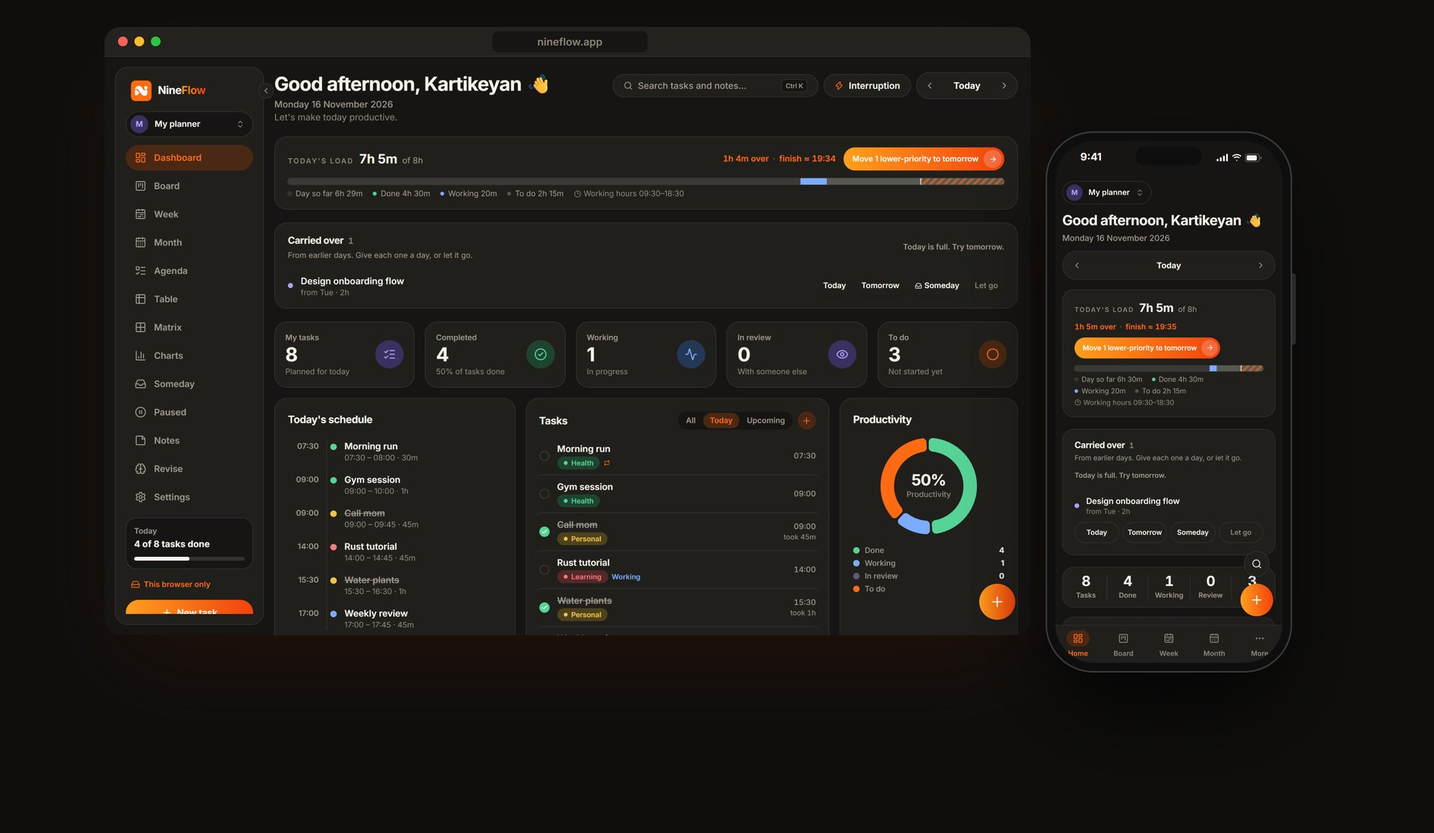
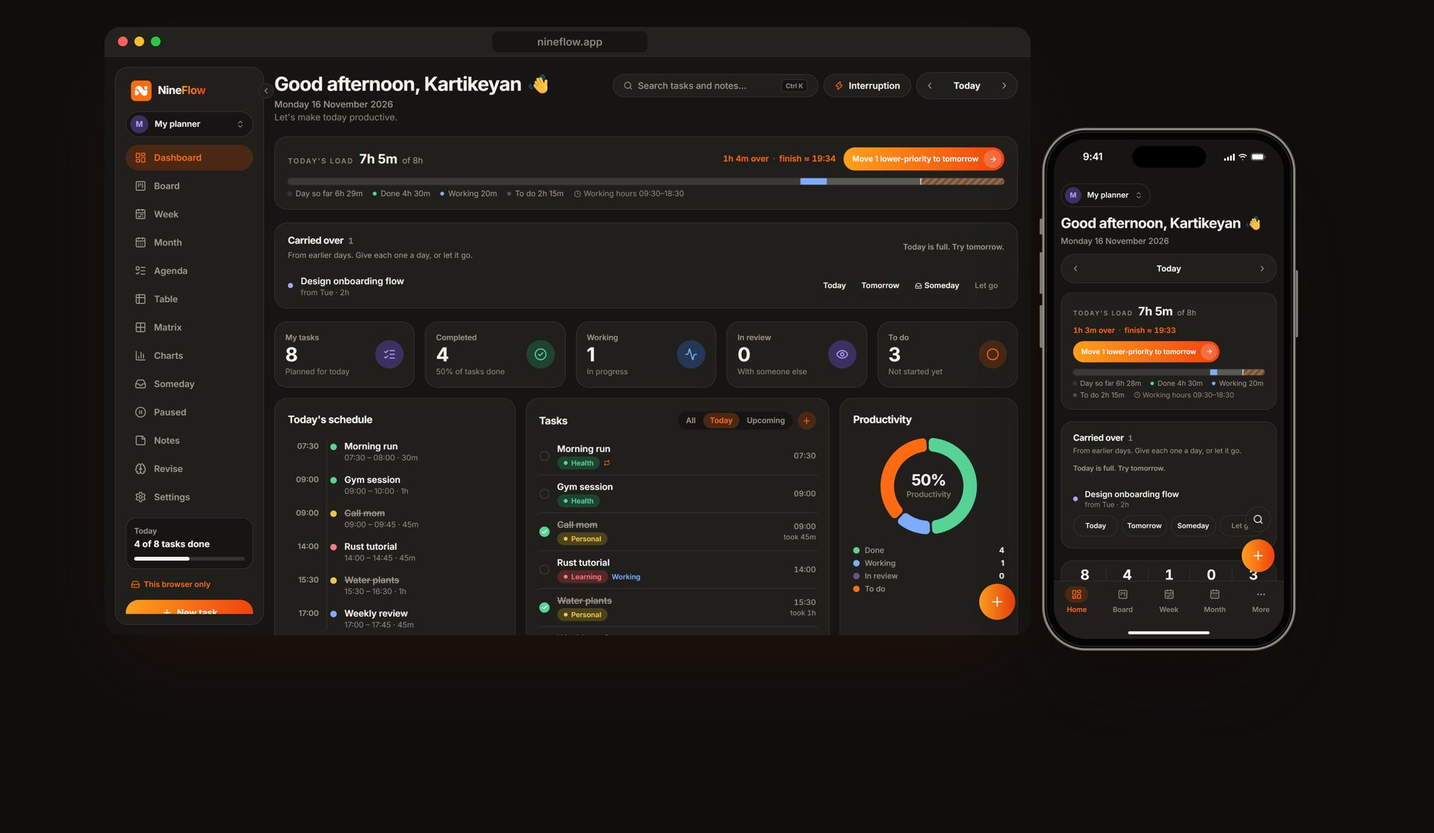
Auto-sync: update 34 file(s)
assets/images/projects/nineflow/deck/p11b-goal-notitle.jpg assets/images/projects/nineflow/deck/p11b-goal-notitle@1200.jpg assets/images/projects/nineflow/deck/p11b-goal-notitle@1920.jpg assets/images/projects/nineflow/deck/p11d-finish-notitle.jpg assets/images/projects/nineflow/deck/p11d-finish-notitle@1200.jpg

Changed region(s): [[0.7188, 0.1523, 0.9062, 0.6398], [0.7188, 0.6093, 0.9062, 0.7921]]

diff --git a/nineflow.html b/nineflow.html
@@ -66,7 +66,7 @@
         </div>
         <div class="nfp-hero__devices" aria-hidden="true">
           <figure class="nfp-bz nfp-hero__laptop"><span class="nfp-bz__bar"><i></i><i></i><i></i><em>nineflow.app/week</em></span><img src="assets/images/projects/nineflow/pres/desk-light-week@1440.jpg" srcset="assets/images/projects/nineflow/pres/desk-light-week@1440.jpg 1440w, assets/images/projects/nineflow/pres/desk-light-week.jpg 3840w" sizes="(min-width: 1100px) 60vw, 92vw" width="3840" height="2400" alt="" /></figure>
-          <figure class="nfp-ph nfp-hero__phone"><img src="assets/images/projects/nineflow/pres/phone-light-month.jpg" width="1170" height="2532" alt="" /></figure>
+          <figure class="nfp-ph nfp-hero__phone"><img src="assets/images/projects/nineflow/pres/phone-light-month.jpg" width="1179" height="2556" alt="" /></figure>
         </div>
       </div>
       <dl class="nfp-facts">
@@ -415,7 +415,7 @@
             <div class="nff-tile__txt"><span class="nff-no">04 · Plan a goal</span><h4>An exam in 24 days, every evening planned</h4><p>Name the goal, pick the date and list the topics. NineFlow spreads the work over your free evenings and shows the plan first.</p></div>
           </article>
           <article class="nff-tile nff-tile--phone nfp-r">
-            <figure><img src="assets/images/projects/nineflow/pres/phone-feat-focus.jpg" width="1170" height="2532" alt="Focus timer counting down on a phone for a gym session" loading="lazy" /></figure>
+            <figure><div class="nfp-ph"><img src="assets/images/projects/nineflow/pres/phone-feat-focus.jpg" width="1179" height="2556" alt="Focus timer counting down on a phone for a gym session" loading="lazy" /></div></figure>
             <div class="nff-tile__txt"><span class="nff-no">05 · Focus timer</span><h4>Focus, and the time is logged</h4><p>A Pomodoro timer that runs on the task, so the minutes you work are logged next to the time you planned.</p></div>
           </article>
           <article class="nff-tile nfp-r">
@@ -460,23 +460,23 @@
         <p>The Android app is the same planner, laid out for a thumb: Home, Board, Week and Month in a bottom bar, everything else one tap away. Every screen comes in light and dark, shown here side by side.</p></header></div>
       <div class="nfp-phones" id="nfpPhones" tabindex="0" aria-label="Phone screens in light and dark mode, scroll sideways">
         <figure class="nfp-pair nfp-r">
-          <div class="nfp-pair__set"><div class="nfp-ph"><img src="assets/images/projects/nineflow/pres/phone-light-home.jpg" width="1170" height="2532" alt="Phone Home in light mode: today's load and schedule" loading="lazy" /></div><div class="nfp-ph nfp-ph--dark"><img src="assets/images/projects/nineflow/pres/phone-dark-home.jpg" width="1170" height="2532" alt="Phone Home in dark mode: today's load and schedule" loading="lazy" /></div></div>
+          <div class="nfp-pair__set"><div class="nfp-ph"><img src="assets/images/projects/nineflow/pres/phone-light-home.jpg" width="1179" height="2556" alt="Phone Home in light mode: today's load and schedule" loading="lazy" /></div><div class="nfp-ph nfp-ph--dark"><img src="assets/images/projects/nineflow/pres/phone-dark-home.jpg" width="1179" height="2556" alt="Phone Home in dark mode: today's load and schedule" loading="lazy" /></div></div>
           <figcaption><b>Home</b><span>Light · Dark</span></figcaption>
         </figure>
         <figure class="nfp-pair nfp-r">
-          <div class="nfp-pair__set"><div class="nfp-ph"><img src="assets/images/projects/nineflow/pres/phone-light-week.jpg" width="1170" height="2532" alt="Phone Week in light mode: the week timeline" loading="lazy" /></div><div class="nfp-ph nfp-ph--dark"><img src="assets/images/projects/nineflow/pres/phone-dark-week.jpg" width="1170" height="2532" alt="Phone Week in dark mode: the week timeline" loading="lazy" /></div></div>
+          <div class="nfp-pair__set"><div class="nfp-ph"><img src="assets/images/projects/nineflow/pres/phone-light-week.jpg" width="1179" height="2556" alt="Phone Week in light mode: the week timeline" loading="lazy" /></div><div class="nfp-ph nfp-ph--dark"><img src="assets/images/projects/nineflow/pres/phone-dark-week.jpg" width="1179" height="2556" alt="Phone Week in dark mode: the week timeline" loading="lazy" /></div></div>
           <figcaption><b>Week</b><span>Light · Dark</span></figcaption>
         </figure>
         <figure class="nfp-pair nfp-r">
-          <div class="nfp-pair__set"><div class="nfp-ph"><img src="assets/images/projects/nineflow/pres/phone-light-board.jpg" width="1170" height="2532" alt="Phone Board in light mode: To do, Working and In review tabs" loading="lazy" /></div><div class="nfp-ph nfp-ph--dark"><img src="assets/images/projects/nineflow/pres/phone-dark-board.jpg" width="1170" height="2532" alt="Phone Board in dark mode: To do, Working and In review tabs" loading="lazy" /></div></div>
+          <div class="nfp-pair__set"><div class="nfp-ph"><img src="assets/images/projects/nineflow/pres/phone-light-board.jpg" width="1179" height="2556" alt="Phone Board in light mode: To do, Working and In review tabs" loading="lazy" /></div><div class="nfp-ph nfp-ph--dark"><img src="assets/images/projects/nineflow/pres/phone-dark-board.jpg" width="1179" height="2556" alt="Phone Board in dark mode: To do, Working and In review tabs" loading="lazy" /></div></div>
           <figcaption><b>Board</b><span>Light · Dark</span></figcaption>
         </figure>
         <figure class="nfp-pair nfp-r">
-          <div class="nfp-pair__set"><div class="nfp-ph"><img src="assets/images/projects/nineflow/pres/phone-light-month.jpg" width="1170" height="2532" alt="Phone Month in light mode: hours per day across the month" loading="lazy" /></div><div class="nfp-ph nfp-ph--dark"><img src="assets/images/projects/nineflow/pres/phone-dark-month.jpg" width="1170" height="2532" alt="Phone Month in dark mode: hours per day across the month" loading="lazy" /></div></div>
+          <div class="nfp-pair__set"><div class="nfp-ph"><img src="assets/images/projects/nineflow/pres/phone-light-month.jpg" width="1179" height="2556" alt="Phone Month in light mode: hours per day across the month" loading="lazy" /></div><div class="nfp-ph nfp-ph--dark"><img src="assets/images/projects/nineflow/pres/phone-dark-month.jpg" width="1179" height="2556" alt="Phone Month in dark mode: hours per day across the month" loading="lazy" /></div></div>
           <figcaption><b>Month</b><span>Light · Dark</span></figcaption>
         </figure>
         <figure class="nfp-pair nfp-r">
-          <div class="nfp-pair__set"><div class="nfp-ph"><img src="assets/images/projects/nineflow/pres/phone-light-charts.jpg" width="1170" height="2532" alt="Phone Charts in light mode: hours worked and tasks done" loading="lazy" /></div><div class="nfp-ph nfp-ph--dark"><img src="assets/images/projects/nineflow/pres/phone-dark-charts.jpg" width="1170" height="2532" alt="Phone Charts in dark mode: hours worked and tasks done" loading="lazy" /></div></div>
+          <div class="nfp-pair__set"><div class="nfp-ph"><img src="assets/images/projects/nineflow/pres/phone-light-charts.jpg" width="1179" height="2556" alt="Phone Charts in light mode: hours worked and tasks done" loading="lazy" /></div><div class="nfp-ph nfp-ph--dark"><img src="assets/images/projects/nineflow/pres/phone-dark-charts.jpg" width="1179" height="2556" alt="Phone Charts in dark mode: hours worked and tasks done" loading="lazy" /></div></div>
           <figcaption><b>Charts</b><span>Light · Dark</span></figcaption>
         </figure>
       </div>
@@ -492,7 +492,7 @@
         <p>Warm greys instead of pure black, and the same orange, so the brand looks the same day and night. Four more colour themes for people who want their own.</p></header>
       <div class="nfp-dark nfp-r">
         <figure class="nfp-bz nfp-bz--dark"><span class="nfp-bz__bar"><i></i><i></i><i></i><em>nineflow.app</em></span><img src="assets/images/projects/nineflow/pres/desk-dark-dashboard@1440.jpg" srcset="assets/images/projects/nineflow/pres/desk-dark-dashboard@1440.jpg 1440w, assets/images/projects/nineflow/pres/desk-dark-dashboard.jpg 3840w" sizes="80vw" width="3840" height="2400" alt="The dashboard in dark mode" loading="lazy" /></figure>
-        <figure class="nfp-ph nfp-dark__ph"><img src="assets/images/projects/nineflow/pres/phone-dark-home.jpg" width="1170" height="2532" alt="Phone home in dark mode" loading="lazy" /></figure>
+        <figure class="nfp-ph nfp-dark__ph"><img src="assets/images/projects/nineflow/pres/phone-dark-home.jpg" width="1179" height="2556" alt="Phone home in dark mode" loading="lazy" /></figure>
       </div>
       <figure class="nfp-board nfp-board--deck nfp-r"><img src="assets/images/projects/nineflow/deck/p14-dark-notitle@1920.jpg" srcset="assets/images/projects/nineflow/deck/p14-dark-notitle@1200.jpg 1200w, assets/images/projects/nineflow/deck/p14-dark-notitle@1920.jpg 1920w, assets/images/projects/nineflow/deck/p14-dark-notitle.jpg 3840w" sizes="(min-width: 1400px) 1300px, 94vw" width="3840" height="2232" alt="Easy on the eyes after dark: the dashboard and phone in dark mode" loading="lazy" decoding="async" /></figure>
       <div class="nfp-themes">

diff --git a/nineflow-presentation.html b/nineflow-presentation.html
@@ -67,7 +67,7 @@
         </div>
         <div class="nfp-hero__devices" aria-hidden="true">
           <figure class="nfp-bz nfp-hero__laptop"><span class="nfp-bz__bar"><i></i><i></i><i></i><em>nineflow.app/week</em></span><img src="assets/images/projects/nineflow/pres/desk-light-week@1440.jpg" srcset="assets/images/projects/nineflow/pres/desk-light-week@1440.jpg 1440w, assets/images/projects/nineflow/pres/desk-light-week.jpg 3840w" sizes="(min-width: 1100px) 60vw, 92vw" width="3840" height="2400" alt="" /></figure>
-          <figure class="nfp-ph nfp-hero__phone"><img src="assets/images/projects/nineflow/pres/phone-light-month.jpg" width="1170" height="2532" alt="" /></figure>
+          <figure class="nfp-ph nfp-hero__phone"><img src="assets/images/projects/nineflow/pres/phone-light-month.jpg" width="1179" height="2556" alt="" /></figure>
         </div>
       </div>
       <dl class="nfp-facts">
@@ -361,7 +361,7 @@
             </div>
           </article>
           <article class="nff-card nff-card--phone nfp-r">
-            <figure><img src="assets/images/projects/nineflow/pres/phone-feat-focus.jpg" width="1170" height="2532" alt="Focus timer counting down on a phone for a gym session" loading="lazy" /></figure>
+            <figure><div class="nfp-ph"><img src="assets/images/projects/nineflow/pres/phone-feat-focus.jpg" width="1179" height="2556" alt="Focus timer counting down on a phone for a gym session" loading="lazy" /></div></figure>
             <div class="nff-txt">
               <span class="nff-no">05 · Focus timer</span><h4>Focus, and the time is logged</h4>
               <p class="nff-lead">A Pomodoro timer that runs on the task itself, so the minutes you work are recorded where they belong.</p>
@@ -442,23 +442,23 @@
         <p>The Android app is the same planner, laid out for a thumb: Home, Board, Week and Month in a bottom bar, everything else one tap away. Every screen comes in light and dark, shown here side by side.</p></header></div>
       <div class="nfp-phones" id="nfpPhones" tabindex="0" aria-label="Phone screens in light and dark mode, scroll sideways">
         <figure class="nfp-pair nfp-r">
-          <div class="nfp-pair__set"><div class="nfp-ph"><img src="assets/images/projects/nineflow/pres/phone-light-home.jpg" width="1170" height="2532" alt="Phone Home in light mode: today's load and schedule" loading="lazy" /></div><div class="nfp-ph nfp-ph--dark"><img src="assets/images/projects/nineflow/pres/phone-dark-home.jpg" width="1170" height="2532" alt="Phone Home in dark mode: today's load and schedule" loading="lazy" /></div></div>
+          <div class="nfp-pair__set"><div class="nfp-ph"><img src="assets/images/projects/nineflow/pres/phone-light-home.jpg" width="1179" height="2556" alt="Phone Home in light mode: today's load and schedule" loading="lazy" /></div><div class="nfp-ph nfp-ph--dark"><img src="assets/images/projects/nineflow/pres/phone-dark-home.jpg" width="1179" height="2556" alt="Phone Home in dark mode: today's load and schedule" loading="lazy" /></div></div>
           <figcaption><b>Home</b><span>Light · Dark</span></figcaption>
         </figure>
         <figure class="nfp-pair nfp-r">
-          <div class="nfp-pair__set"><div class="nfp-ph"><img src="assets/images/projects/nineflow/pres/phone-light-week.jpg" width="1170" height="2532" alt="Phone Week in light mode: the week timeline" loading="lazy" /></div><div class="nfp-ph nfp-ph--dark"><img src="assets/images/projects/nineflow/pres/phone-dark-week.jpg" width="1170" height="2532" alt="Phone Week in dark mode: the week timeline" loading="lazy" /></div></div>
+          <div class="nfp-pair__set"><div class="nfp-ph"><img src="assets/images/projects/nineflow/pres/phone-light-week.jpg" width="1179" height="2556" alt="Phone Week in light mode: the week timeline" loading="lazy" /></div><div class="nfp-ph nfp-ph--dark"><img src="assets/images/projects/nineflow/pres/phone-dark-week.jpg" width="1179" height="2556" alt="Phone Week in dark mode: the week timeline" loading="lazy" /></div></div>
           <figcaption><b>Week</b><span>Light · Dark</span></figcaption>
         </figure>
         <figure class="nfp-pair nfp-r">
-          <div class="nfp-pair__set"><div class="nfp-ph"><img src="assets/images/projects/nineflow/pres/phone-light-board.jpg" width="1170" height="2532" alt="Phone Board in light mode: To do, Working and In review tabs" loading="lazy" /></div><div class="nfp-ph nfp-ph--dark"><img src="assets/images/projects/nineflow/pres/phone-dark-board.jpg" width="1170" height="2532" alt="Phone Board in dark mode: To do, Working and In review tabs" loading="lazy" /></div></div>
+          <div class="nfp-pair__set"><div class="nfp-ph"><img src="assets/images/projects/nineflow/pres/phone-light-board.jpg" width="1179" height="2556" alt="Phone Board in light mode: To do, Working and In review tabs" loading="lazy" /></div><div class="nfp-ph nfp-ph--dark"><img src="assets/images/projects/nineflow/pres/phone-dark-board.jpg" width="1179" height="2556" alt="Phone Board in dark mode: To do, Working and In review tabs" loading="lazy" /></div></div>
           <figcaption><b>Board</b><span>Light · Dark</span></figcaption>
         </figure>
         <figure class="nfp-pair nfp-r">
-          <div class="nfp-pair__set"><div class="nfp-ph"><img src="assets/images/projects/nineflow/pres/phone-light-month.jpg" width="1170" height="2532" alt="Phone Month in light mode: hours per day across the month" loading="lazy" /></div><div class="nfp-ph nfp-ph--dark"><img src="assets/images/projects/nineflow/pres/phone-dark-month.jpg" width="1170" height="2532" alt="Phone Month in dark mode: hours per day across the month" loading="lazy" /></div></div>
+          <div class="nfp-pair__set"><div class="nfp-ph"><img src="assets/images/projects/nineflow/pres/phone-light-month.jpg" width="1179" height="2556" alt="Phone Month in light mode: hours per day across the month" loading="lazy" /></div><div class="nfp-ph nfp-ph--dark"><img src="assets/images/projects/nineflow/pres/phone-dark-month.jpg" width="1179" height="2556" alt="Phone Month in dark mode: hours per day across the month" loading="lazy" /></div></div>
           <figcaption><b>Month</b><span>Light · Dark</span></figcaption>
         </figure>
         <figure class="nfp-pair nfp-r">
-          <div class="nfp-pair__set"><div class="nfp-ph"><img src="assets/images/projects/nineflow/pres/phone-light-charts.jpg" width="1170" height="2532" alt="Phone Charts in light mode: hours worked and tasks done" loading="lazy" /></div><div class="nfp-ph nfp-ph--dark"><img src="assets/images/projects/nineflow/pres/phone-dark-charts.jpg" width="1170" height="2532" alt="Phone Charts in dark mode: hours worked and tasks done" loading="lazy" /></div></div>
+          <div class="nfp-pair__set"><div class="nfp-ph"><img src="assets/images/projects/nineflow/pres/phone-light-charts.jpg" width="1179" height="2556" alt="Phone Charts in light mode: hours worked and tasks done" loading="lazy" /></div><div class="nfp-ph nfp-ph--dark"><img src="assets/images/projects/nineflow/pres/phone-dark-charts.jpg" width="1179" height="2556" alt="Phone Charts in dark mode: hours worked and tasks done" loading="lazy" /></div></div>
           <figcaption><b>Charts</b><span>Light · Dark</span></figcaption>
         </figure>
       </div>
@@ -470,7 +470,7 @@
         <p>Warm greys instead of pure black, and the same orange, so the brand looks the same day and night. Four more colour themes for people who want their own.</p></header>
       <div class="nfp-dark nfp-r">
         <figure class="nfp-bz nfp-bz--dark"><span class="nfp-bz__bar"><i></i><i></i><i></i><em>nineflow.app</em></span><img src="assets/images/projects/nineflow/pres/desk-dark-dashboard@1440.jpg" srcset="assets/images/projects/nineflow/pres/desk-dark-dashboard@1440.jpg 1440w, assets/images/projects/nineflow/pres/desk-dark-dashboard.jpg 3840w" sizes="80vw" width="3840" height="2400" alt="The dashboard in dark mode" loading="lazy" /></figure>
-        <figure class="nfp-ph nfp-dark__ph"><img src="assets/images/projects/nineflow/pres/phone-dark-home.jpg" width="1170" height="2532" alt="Phone home in dark mode" loading="lazy" /></figure>
+        <figure class="nfp-ph nfp-dark__ph"><img src="assets/images/projects/nineflow/pres/phone-dark-home.jpg" width="1179" height="2556" alt="Phone home in dark mode" loading="lazy" /></figure>
       </div>
       <div class="nfp-themes">
         <figure class="nfp-r"><img src="assets/images/projects/nineflow/pres/theme-ocean@1440.jpg" width="1440" height="900" alt="Dashboard in the Ocean theme" loading="lazy" /><figcaption>Ocean</figcaption></figure>

diff --git a/sample-nineflow-both.html b/sample-nineflow-both.html
@@ -70,7 +70,7 @@
         </div>
         <div class="nfp-hero__devices" aria-hidden="true">
           <figure class="nfp-bz nfp-hero__laptop"><span class="nfp-bz__bar"><i></i><i></i><i></i><em>nineflow.app/week</em></span><img src="assets/images/projects/nineflow/pres/desk-light-week@1440.jpg" srcset="assets/images/projects/nineflow/pres/desk-light-week@1440.jpg 1440w, assets/images/projects/nineflow/pres/desk-light-week.jpg 3840w" sizes="(min-width: 1100px) 60vw, 92vw" width="3840" height="2400" alt="" /></figure>
-          <figure class="nfp-ph nfp-hero__phone"><img src="assets/images/projects/nineflow/pres/phone-light-month.jpg" width="1170" height="2532" alt="" /></figure>
+          <figure class="nfp-ph nfp-hero__phone"><img src="assets/images/projects/nineflow/pres/phone-light-month.jpg" width="1179" height="2556" alt="" /></figure>
         </div>
       </div>
       <dl class="nfp-facts">
@@ -364,7 +364,7 @@
             </div>
           </article>
           <article class="nff-card nff-card--phone nfp-r">
-            <figure><img src="assets/images/projects/nineflow/pres/phone-feat-focus.jpg" width="1170" height="2532" alt="Focus timer counting down on a phone for a gym session" loading="lazy" /></figure>
+            <figure><div class="nfp-ph"><img src="assets/images/projects/nineflow/pres/phone-feat-focus.jpg" width="1179" height="2556" alt="Focus timer counting down on a phone for a gym session" loading="lazy" /></div></figure>
             <div class="nff-txt">
               <span class="nff-no">05 · Focus timer</span><h4>Focus, and the time is logged</h4>
               <p class="nff-lead">A Pomodoro timer that runs on the task itself, so the minutes you work are recorded where they belong.</p>
@@ -445,23 +445,23 @@
         <p>The Android app is the same planner, laid out for a thumb: Home, Board, Week and Month in a bottom bar, everything else one tap away. Every screen comes in light and dark, shown here side by side.</p></header></div>
       <div class="nfp-phones" id="nfpPhones" tabindex="0" aria-label="Phone screens in light and dark mode, scroll sideways">
         <figure class="nfp-pair nfp-r">
-          <div class="nfp-pair__set"><div class="nfp-ph"><img src="assets/images/projects/nineflow/pres/phone-light-home.jpg" width="1170" height="2532" alt="Phone Home in light mode: today's load and schedule" loading="lazy" /></div><div class="nfp-ph nfp-ph--dark"><img src="assets/images/projects/nineflow/pres/phone-dark-home.jpg" width="1170" height="2532" alt="Phone Home in dark mode: today's load and schedule" loading="lazy" /></div></div>
+          <div class="nfp-pair__set"><div class="nfp-ph"><img src="assets/images/projects/nineflow/pres/phone-light-home.jpg" width="1179" height="2556" alt="Phone Home in light mode: today's load and schedule" loading="lazy" /></div><div class="nfp-ph nfp-ph--dark"><img src="assets/images/projects/nineflow/pres/phone-dark-home.jpg" width="1179" height="2556" alt="Phone Home in dark mode: today's load and schedule" loading="lazy" /></div></div>
           <figcaption><b>Home</b><span>Light · Dark</span></figcaption>
         </figure>
         <figure class="nfp-pair nfp-r">
-          <div class="nfp-pair__set"><div class="nfp-ph"><img src="assets/images/projects/nineflow/pres/phone-light-week.jpg" width="1170" height="2532" alt="Phone Week in light mode: the week timeline" loading="lazy" /></div><div class="nfp-ph nfp-ph--dark"><img src="assets/images/projects/nineflow/pres/phone-dark-week.jpg" width="1170" height="2532" alt="Phone Week in dark mode: the week timeline" loading="lazy" /></div></div>
+          <div class="nfp-pair__set"><div class="nfp-ph"><img src="assets/images/projects/nineflow/pres/phone-light-week.jpg" width="1179" height="2556" alt="Phone Week in light mode: the week timeline" loading="lazy" /></div><div class="nfp-ph nfp-ph--dark"><img src="assets/images/projects/nineflow/pres/phone-dark-week.jpg" width="1179" height="2556" alt="Phone Week in dark mode: the week timeline" loading="lazy" /></div></div>
           <figcaption><b>Week</b><span>Light · Dark</span></figcaption>
         </figure>
         <figure class="nfp-pair nfp-r">
-          <div class="nfp-pair__set"><div class="nfp-ph"><img src="assets/images/projects/nineflow/pres/phone-light-board.jpg" width="1170" height="2532" alt="Phone Board in light mode: To do, Working and In review tabs" loading="lazy" /></div><div class="nfp-ph nfp-ph--dark"><img src="assets/images/projects/nineflow/pres/phone-dark-board.jpg" width="1170" height="2532" alt="Phone Board in dark mode: To do, Working and In review tabs" loading="lazy" /></div></div>
+          <div class="nfp-pair__set"><div class="nfp-ph"><img src="assets/images/projects/nineflow/pres/phone-light-board.jpg" width="1179" height="2556" alt="Phone Board in light mode: To do, Working and In review tabs" loading="lazy" /></div><div class="nfp-ph nfp-ph--dark"><img src="assets/images/projects/nineflow/pres/phone-dark-board.jpg" width="1179" height="2556" alt="Phone Board in dark mode: To do, Working and In review tabs" loading="lazy" /></div></div>
           <figcaption><b>Board</b><span>Light · Dark</span></figcaption>
         </figure>
         <figure class="nfp-pair nfp-r">
-          <div class="nfp-pair__set"><div class="nfp-ph"><img src="assets/images/projects/nineflow/pres/phone-light-month.jpg" width="1170" height="2532" alt="Phone Month in light mode: hours per day across the month" loading="lazy" /></div><div class="nfp-ph nfp-ph--dark"><img src="assets/images/projects/nineflow/pres/phone-dark-month.jpg" width="1170" height="2532" alt="Phone Month in dark mode: hours per day across the month" loading="lazy" /></div></div>
+          <div class="nfp-pair__set"><div class="nfp-ph"><img src="assets/images/projects/nineflow/pres/phone-light-month.jpg" width="1179" height="2556" alt="Phone Month in light mode: hours per day across the month" loading="lazy" /></div><div class="nfp-ph nfp-ph--dark"><img src="assets/images/projects/nineflow/pres/phone-dark-month.jpg" width="1179" height="2556" alt="Phone Month in dark mode: hours per day across the month" loading="lazy" /></div></div>
           <figcaption><b>Month</b><span>Light · Dark</span></figcaption>
         </figure>
         <figure class="nfp-pair nfp-r">
-          <div class="nfp-pair__set"><div class="nfp-ph"><img src="assets/images/projects/nineflow/pres/phone-light-charts.jpg" width="1170" height="2532" alt="Phone Charts in light mode: hours worked and tasks done" loading="lazy" /></div><div class="nfp-ph nfp-ph--dark"><img src="assets/images/projects/nineflow/pres/phone-dark-charts.jpg" width="1170" height="2532" alt="Phone Charts in dark mode: hours worked and tasks done" loading="lazy" /></div></div>
+          <div class="nfp-pair__set"><div class="nfp-ph"><img src="assets/images/projects/nineflow/pres/phone-light-charts.jpg" width="1179" height="2556" alt="Phone Charts in light mode: hours worked and tasks done" loading="lazy" /></div><div class="nfp-ph nfp-ph--dark"><img src="assets/images/projects/nineflow/pres/phone-dark-charts.jpg" width="1179" height="2556" alt="Phone Charts in dark mode: hours worked and tasks done" loading="lazy" /></div></div>
           <figcaption><b>Charts</b><span>Light · Dark</span></figcaption>
         </figure>
       </div>
@@ -473,7 +473,7 @@
         <p>Warm greys instead of pure black, and the same orange, so the brand looks the same day and night. Four more colour themes for people who want their own.</p></header>
       <div class="nfp-dark nfp-r">
         <figure class="nfp-bz nfp-bz--dark"><span class="nfp-bz__bar"><i></i><i></i><i></i><em>nineflow.app</em></span><img src="assets/images/projects/nineflow/pres/desk-dark-dashboard@1440.jpg" srcset="assets/images/projects/nineflow/pres/desk-dark-dashboard@1440.jpg 1440w, assets/images/projects/nineflow/pres/desk-dark-dashboard.jpg 3840w" sizes="80vw" width="3840" height="2400" alt="The dashboard in dark mode" loading="lazy" /></figure>
-        <figure class="nfp-ph nfp-dark__ph"><img src="assets/images/projects/nineflow/pres/phone-dark-home.jpg" width="1170" height="2532" alt="Phone home in dark mode" loading="lazy" /></figure>
+        <figure class="nfp-ph nfp-dark__ph"><img src="assets/images/projects/nineflow/pres/phone-dark-home.jpg" width="1179" height="2556" alt="Phone home in dark mode" loading="lazy" /></figure>
       </div>
       <div class="nfp-themes">
         <figure class="nfp-r"><img src="assets/images/projects/nineflow/pres/theme-ocean@1440.jpg" width="1440" height="900" alt="Dashboard in the Ocean theme" loading="lazy" /><figcaption>Ocean</figcaption></figure>

diff --git a/sample-nineflow.html b/sample-nineflow.html
@@ -70,7 +70,7 @@
         </div>
         <div class="nfp-hero__devices" aria-hidden="true">
           <figure class="nfp-bz nfp-hero__laptop"><span class="nfp-bz__bar"><i></i><i></i><i></i><em>nineflow.app/week</em></span><img src="assets/images/projects/nineflow/pres/desk-light-week@1440.jpg" srcset="assets/images/projects/nineflow/pres/desk-light-week@1440.jpg 1440w, assets/images/projects/nineflow/pres/desk-light-week.jpg 3840w" sizes="(min-width: 1100px) 60vw, 92vw" width="3840" height="2400" alt="" /></figure>
-          <figure class="nfp-ph nfp-hero__phone"><img src="assets/images/projects/nineflow/pres/phone-light-month.jpg" width="1170" height="2532" alt="" /></figure>
+          <figure class="nfp-ph nfp-hero__phone"><img src="assets/images/projects/nineflow/pres/phone-light-month.jpg" width="1179" height="2556" alt="" /></figure>
         </div>
       </div>
       <dl class="nfp-facts">
@@ -364,7 +364,7 @@
             </div>
           </article>
           <article class="nff-card nff-card--phone nfp-r">
-            <figure><img src="assets/images/projects/nineflow/pres/phone-feat-focus.jpg" width="1170" height="2532" alt="Focus timer counting down on a phone for a gym session" loading="lazy" /></figure>
+            <figure><div class="nfp-ph"><img src="assets/images/projects/nineflow/pres/phone-feat-focus.jpg" width="1179" height="2556" alt="Focus timer counting down on a phone for a gym session" loading="lazy" /></div></figure>
             <div class="nff-txt">
               <span class="nff-no">05 · Focus timer</span><h4>Focus, and the time is logged</h4>
               <p class="nff-lead">A Pomodoro timer that runs on the task itself, so the minutes you work are recorded where they belong.</p>
@@ -445,23 +445,23 @@
         <p>The Android app is the same planner, laid out for a thumb: Home, Board, Week and Month in a bottom bar, everything else one tap away. Every screen comes in light and dark, shown here side by side.</p></header></div>
       <div class="nfp-phones" id="nfpPhones" tabindex="0" aria-label="Phone screens in light and dark mode, scroll sideways">
         <figure class="nfp-pair nfp-r">
-          <div class="nfp-pair__set"><div class="nfp-ph"><img src="assets/images/projects/nineflow/pres/phone-light-home.jpg" width="1170" height="2532" alt="Phone Home in light mode: today's load and schedule" loading="lazy" /></div><div class="nfp-ph nfp-ph--dark"><img src="assets/images/projects/nineflow/pres/phone-dark-home.jpg" width="1170" height="2532" alt="Phone Home in dark mode: today's load and schedule" loading="lazy" /></div></div>
+          <div class="nfp-pair__set"><div class="nfp-ph"><img src="assets/images/projects/nineflow/pres/phone-light-home.jpg" width="1179" height="2556" alt="Phone Home in light mode: today's load and schedule" loading="lazy" /></div><div class="nfp-ph nfp-ph--dark"><img src="assets/images/projects/nineflow/pres/phone-dark-home.jpg" width="1179" height="2556" alt="Phone Home in dark mode: today's load and schedule" loading="lazy" /></div></div>
           <figcaption><b>Home</b><span>Light · Dark</span></figcaption>
         </figure>
         <figure class="nfp-pair nfp-r">
-          <div class="nfp-pair__set"><div class="nfp-ph"><img src="assets/images/projects/nineflow/pres/phone-light-week.jpg" width="1170" height="2532" alt="Phone Week in light mode: the week timeline" loading="lazy" /></div><div class="nfp-ph nfp-ph--dark"><img src="assets/images/projects/nineflow/pres/phone-dark-week.jpg" width="1170" height="2532" alt="Phone Week in dark mode: the week timeline" loading="lazy" /></div></div>
+          <div class="nfp-pair__set"><div class="nfp-ph"><img src="assets/images/projects/nineflow/pres/phone-light-week.jpg" width="1179" height="2556" alt="Phone Week in light mode: the week timeline" loading="lazy" /></div><div class="nfp-ph nfp-ph--dark"><img src="assets/images/projects/nineflow/pres/phone-dark-week.jpg" width="1179" height="2556" alt="Phone Week in dark mode: the week timeline" loading="lazy" /></div></div>
           <figcaption><b>Week</b><span>Light · Dark</span></figcaption>
         </figure>
         <figure class="nfp-pair nfp-r">
-          <div class="nfp-pair__set"><div class="nfp-ph"><img src="assets/images/projects/nineflow/pres/phone-light-board.jpg" width="1170" height="2532" alt="Phone Board in light mode: To do, Working and In review tabs" loading="lazy" /></div><div class="nfp-ph nfp-ph--dark"><img src="assets/images/projects/nineflow/pres/phone-dark-board.jpg" width="1170" height="2532" alt="Phone Board in dark mode: To do, Working and In review tabs" loading="lazy" /></div></div>
+          <div class="nfp-pair__set"><div class="nfp-ph"><img src="assets/images/projects/nineflow/pres/phone-light-board.jpg" width="1179" height="2556" alt="Phone Board in light mode: To do, Working and In review tabs" loading="lazy" /></div><div class="nfp-ph nfp-ph--dark"><img src="assets/images/projects/nineflow/pres/phone-dark-board.jpg" width="1179" height="2556" alt="Phone Board in dark mode: To do, Working and In review tabs" loading="lazy" /></div></div>
           <figcaption><b>Board</b><span>Light · Dark</span></figcaption>
         </figure>
         <figure class="nfp-pair nfp-r">
-          <div class="nfp-pair__set"><div class="nfp-ph"><img src="assets/images/projects/nineflow/pres/phone-light-month.jpg" width="1170" height="2532" alt="Phone Month in light mode: hours per day across the month" loading="lazy" /></div><div class="nfp-ph nfp-ph--dark"><img src="assets/images/projects/nineflow/pres/phone-dark-month.jpg" width="1170" height="2532" alt="Phone Month in dark mode: hours per day across the month" loading="lazy" /></div></div>
+          <div class="nfp-pair__set"><div class="nfp-ph"><img src="assets/images/projects/nineflow/pres/phone-light-month.jpg" width="1179" height="2556" alt="Phone Month in light mode: hours per day across the month" loading="lazy" /></div><div class="nfp-ph nfp-ph--dark"><img src="assets/images/projects/nineflow/pres/phone-dark-month.jpg" width="1179" height="2556" alt="Phone Month in dark mode: hours per day across the month" loading="lazy" /></div></div>
           <figcaption><b>Month</b><span>Light · Dark</span></figcaption>
         </figure>
         <figure class="nfp-pair nfp-r">
-          <div class="nfp-pair__set"><div class="nfp-ph"><img src="assets/images/projects/nineflow/pres/phone-light-charts.jpg" width="1170" height="2532" alt="Phone Charts in light mode: hours worked and tasks done" loading="lazy" /></div><div class="nfp-ph nfp-ph--dark"><img src="assets/images/projects/nineflow/pres/phone-dark-charts.jpg" width="1170" height="2532" alt="Phone Charts in dark mode: hours worked and tasks done" loading="lazy" /></div></div>
+          <div class="nfp-pair__set"><div class="nfp-ph"><img src="assets/images/projects/nineflow/pres/phone-light-charts.jpg" width="1179" height="2556" alt="Phone Charts in light mode: hours worked and tasks done" loading="lazy" /></div><div class="nfp-ph nfp-ph--dark"><img src="assets/images/projects/nineflow/pres/phone-dark-charts.jpg" width="1179" height="2556" alt="Phone Charts in dark mode: hours worked and tasks done" loading="lazy" /></div></div>
           <figcaption><b>Charts</b><span>Light · Dark</span></figcaption>
         </figure>
       </div>
@@ -473,7 +473,7 @@
         <p>Warm greys instead of pure black, and the same orange, so the brand looks the same day and night. Four more colour themes for people who want their own.</p></header>
       <div class="nfp-dark nfp-r">
         <figure class="nfp-bz nfp-bz--dark"><span class="nfp-bz__bar"><i></i><i></i><i></i><em>nineflow.app</em></span><img src="assets/images/projects/nineflow/pres/desk-dark-dashboard@1440.jpg" srcset="assets/images/projects/nineflow/pres/desk-dark-dashboard@1440.jpg 1440w, assets/images/projects/nineflow/pres/desk-dark-dashboard.jpg 3840w" sizes="80vw" width="3840" height="2400" alt="The dashboard in dark mode" loading="lazy" /></figure>
-        <figure class="nfp-ph nfp-dark__ph"><img src="assets/images/projects/nineflow/pres/phone-dark-home.jpg" width="1170" height="2532" alt="Phone home in dark mode" loading="lazy" /></figure>
+        <figure class="nfp-ph nfp-dark__ph"><img src="assets/images/projects/nineflow/pres/phone-dark-home.jpg" width="1179" height="2556" alt="Phone home in dark mode" loading="lazy" /></figure>
       </div>
       <div class="nfp-themes">
         <figure class="nfp-r"><img src="assets/images/projects/nineflow/pres/theme-ocean@1440.jpg" width="1440" height="900" alt="Dashboard in the Ocean theme" loading="lazy" /><figcaption>Ocean</figcaption></figure>

diff --git a/css/style.css b/css/style.css
@@ -4151,8 +4151,11 @@ img.iph__view { object-fit: cover; object-position: var(--fy, 50% 0); }
 .nfp-bz__bar em { margin: 0 auto; translate: -27px 0; font: 500 12px var(--nf); color: #57524a; background: #f6f2ea; padding: 3px 14px; border-radius: 6px; }
 .nfp-bz img { display: block; width: 100%; height: auto; }
 .nfp-bz--dark { background: #161513; } .nfp-bz--dark .nfp-bz__bar { background: #23211e; } .nfp-bz--dark .nfp-bz__bar em { background: #2c2a26; color: #c9c2b6; }
-.nfp-ph { margin: 0; border-radius: clamp(26px, 3vw, 44px); padding: clamp(5px, .6vw, 9px); background: #0b0a09; box-shadow: 0 40px 70px -30px rgba(0, 0, 0, .8), 0 0 0 1px rgba(255, 255, 255, .12); }
-.nfp-ph img { display: block; width: 100%; height: auto; border-radius: clamp(21px, 2.5vw, 36px); }
+/* A true-to-size iPhone (393 x 852 screen): every ratio is a percentage, so it holds at any width */
+.nfp-ph { position: relative; display: flow-root; margin: 0; padding: 0; border-radius: 16.3% / 7.79%; background: #050505; box-shadow: 0 0 0 1px #000, 0 0 0 2.5px #8f8a82, 0 0 0 3px #4d4a45, inset 0 0 0 1px #1f1e1c, 0 40px 70px -30px rgba(0, 0, 0, .8); }
+.nfp-ph img { display: block; width: 93.6%; height: auto; margin: 3.2%; border-radius: 14% / 6.46%; }
+.nfp-ph::before { content: ""; position: absolute; left: -5px; top: 17%; width: 2px; height: 25%; border-radius: 1.5px 0 0 1.5px; background: linear-gradient(180deg, #7d7870 0 12%, transparent 12% 26%, #7d7870 26% 58%, transparent 58% 67%, #7d7870 67% 100%); }
+.nfp-ph::after { content: ""; position: absolute; right: -5px; top: 27%; width: 2px; height: 13%; border-radius: 0 1.5px 1.5px 0; background: #7d7870; }
 
 /* hero */
 .nfp-hero { padding-top: clamp(96px, 10vw, 130px); }
@@ -4412,7 +4415,8 @@ img.iph__view { object-fit: cover; object-position: var(--fy, 50% 0); }
 .nff-card figure { margin: 0; border-radius: 16px; overflow: hidden; background: var(--sand); display: grid; place-items: center; align-self: stretch; padding: clamp(10px, 1.4vw, 18px); }
 .nff-card figure img { display: block; width: 100%; height: auto; border-radius: 10px; box-shadow: 0 18px 40px -22px rgba(60, 20, 0, .45); }
 .nff-card--phone figure { background: linear-gradient(135deg, #ff9f1c 0%, #ff6a13 45%, #f2420e 100%); }
-.nff-card--phone figure img { width: min(62%, 230px); border-radius: 22px; }
+.nff-card--phone figure .nfp-ph { width: min(62%, 230px); }
+.nff-card--phone figure .nfp-ph img { width: 93.6%; margin: 3.2%; border-radius: 14% / 6.46%; box-shadow: none; }
 .nff-txt { display: grid; gap: 12px; padding: 6px 6px 6px 0; }
 .nff-no { font: 500 12px var(--mono); letter-spacing: .08em; text-transform: uppercase; color: var(--o); }
 .nff-txt h4 { margin: 0; font: 800 clamp(21px, 1.9vw, 27px)/1.15 var(--nf); color: #fff; letter-spacing: -.025em; }
@@ -4450,7 +4454,7 @@ img.iph__view { object-fit: cover; object-position: var(--fy, 50% 0); }
 /* NineFlow presentation · phone screens as light / dark pairs */
 .nfp-phones .nfp-pair { flex: 0 0 clamp(400px, 33vw, 600px); margin: 0; scroll-snap-align: start; }
 .nfp-pair__set { display: grid; grid-template-columns: 1fr 1fr; gap: clamp(10px, 1.2vw, 18px); align-items: start; padding: clamp(14px, 1.6vw, 22px); border-radius: 28px; background: #24221f; }
-.nfp-pair__set .nfp-ph--dark { margin-top: 28px; box-shadow: 0 40px 70px -30px rgba(0, 0, 0, .9), 0 0 0 1px rgba(255, 255, 255, .16); }
+.nfp-pair__set .nfp-ph--dark { margin-top: 28px; }
 .nfp-pair figcaption { display: flex; justify-content: space-between; align-items: baseline; gap: 10px; margin-top: 14px; padding: 0 6px; }
 .nfp-pair figcaption b { font: 700 18px var(--nf); color: #fff; letter-spacing: -.02em; }
 .nfp-pair figcaption span { font: 500 12px var(--mono); color: var(--mut); }
@@ -4462,7 +4466,8 @@ img.iph__view { object-fit: cover; object-position: var(--fy, 50% 0); }
 .nfp-phones .nfp-pair { flex: 0 0 auto; }
 .nfp-pair__set { grid-template-columns: repeat(2, var(--nfp-phone)); }
 .nff-tile--phone figure { display: grid; justify-items: center; align-items: start; padding-bottom: 0; }
-.nff-tile--phone figure img { box-sizing: border-box; width: var(--nfp-phone); height: auto; padding: clamp(5px, .6vw, 9px); border-radius: clamp(26px, 3vw, 44px); background: #0b0a09; }
+.nff-tile--phone figure .nfp-ph { width: var(--nfp-phone); }
+.nff-tile--phone figure .nfp-ph img { width: 93.6%; height: auto; margin: 3.2%; border-radius: 14% / 6.46%; object-fit: fill; filter: none; }
 @media (max-width: 1000px) {
   .nfp { --nfp-phone: clamp(140px, 20vw, 170px); }
   .nfp-hero__phone, .nfp-dark__ph { width: 26%; }
